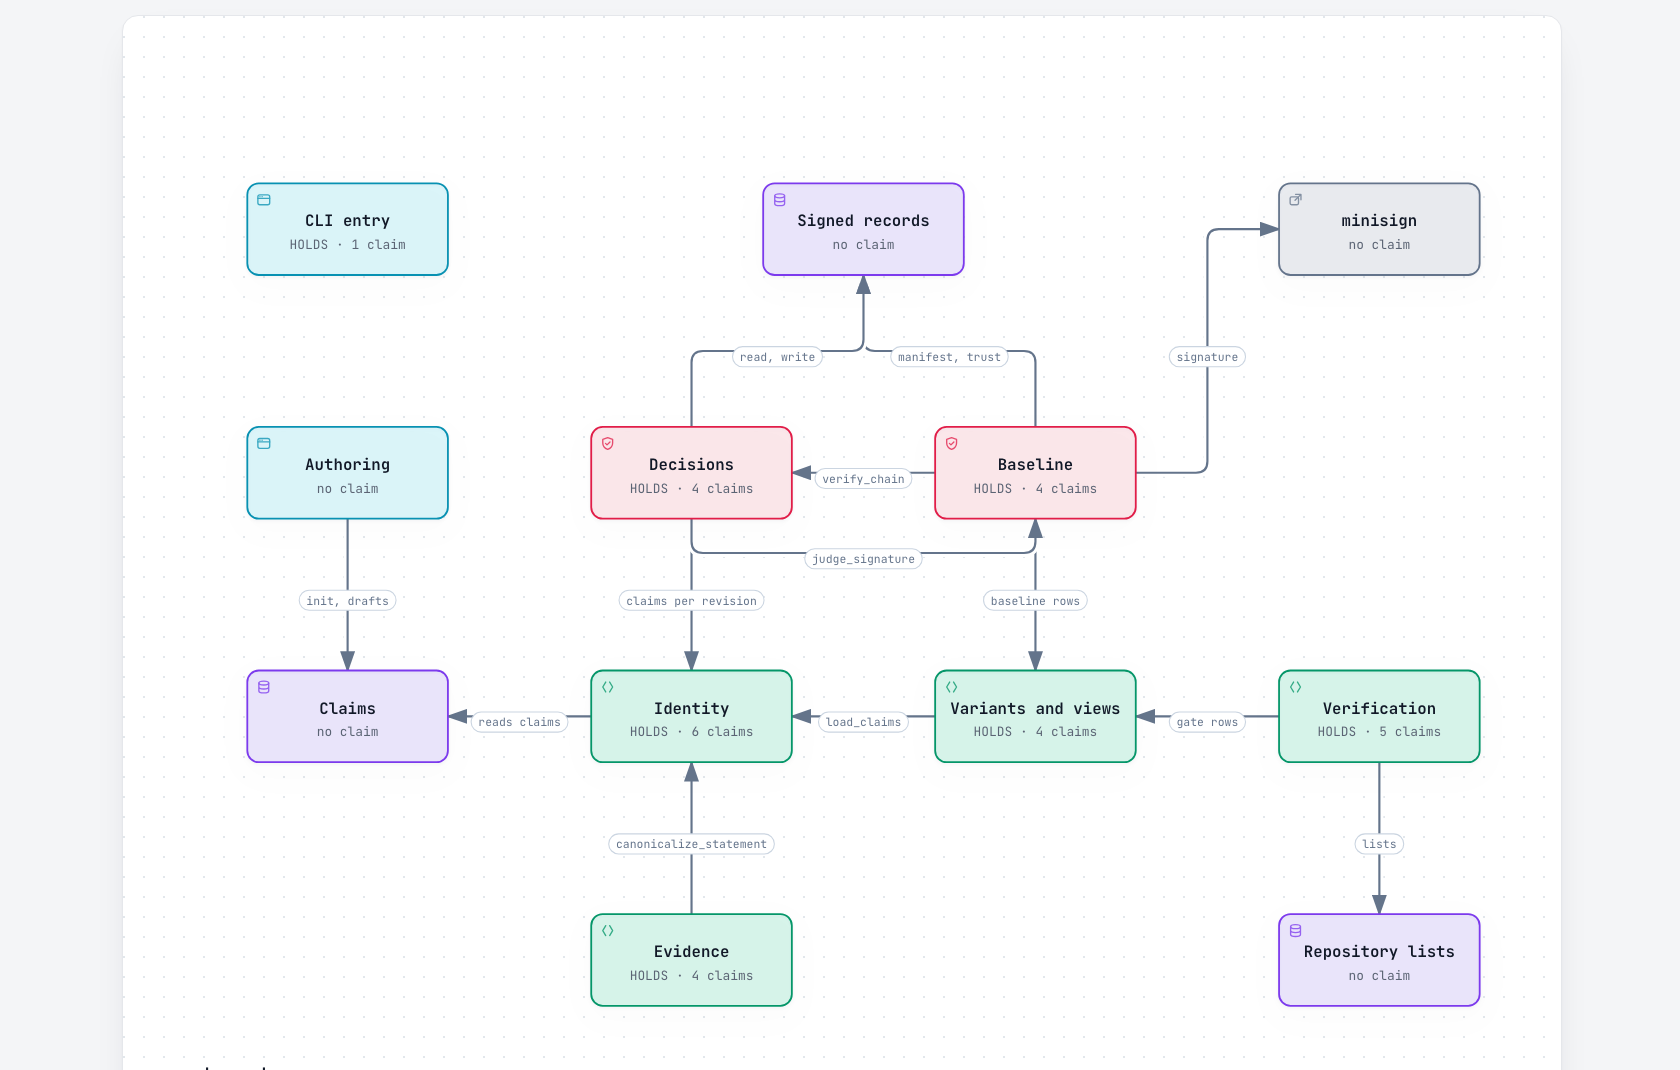
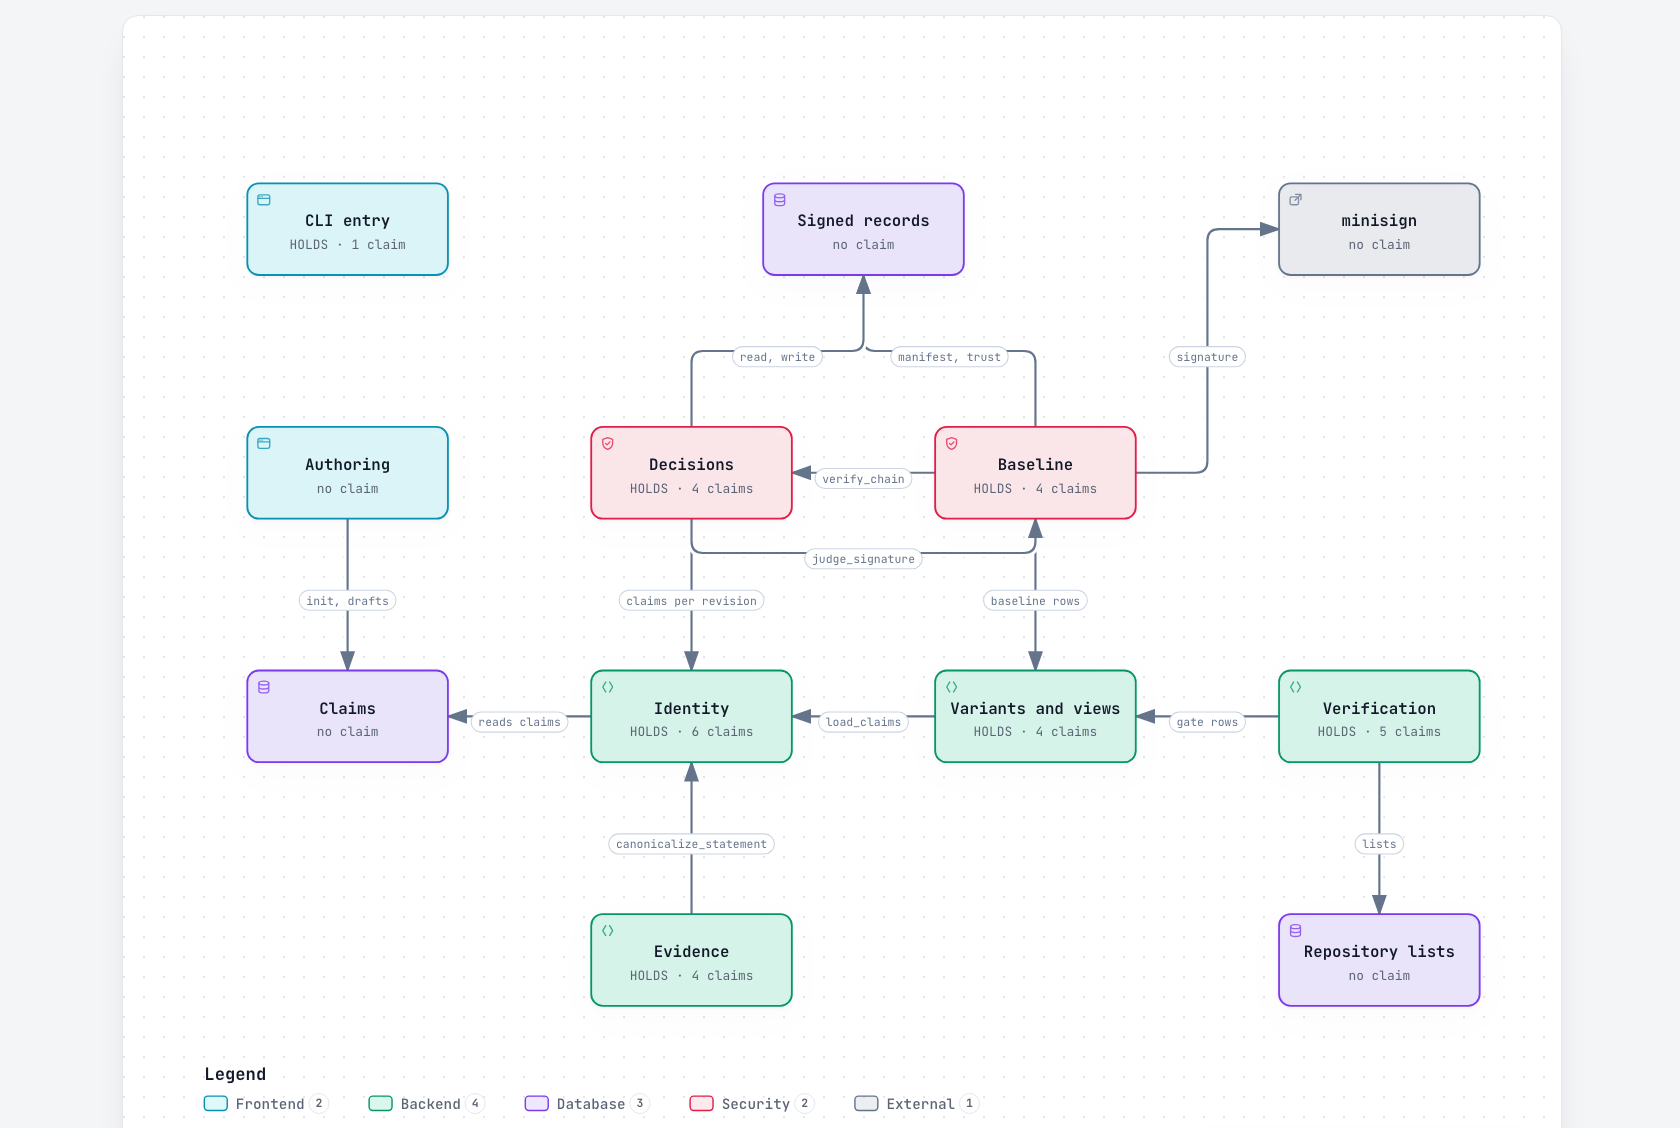
fix(readme): true alt text and Status numbers; re-crop the drift pictures so the legend is whole (P-1-fix)
README: the before picture's alt text said every part holds; five parts read "no claim", so it now says
every part with a linked requirement holds. Status numbers checked against the repository: RULES_V 8 -> 9
(src/canon.rs), 39 -> 40 dogfood claims (claims/), "seven corpus families, three of real prose" -> nine
corpora gated by scripts/check.sh (parity, external-v1..v4, direction-v1..v4; the last eight real prose from
other projects), "Five providers" -> "Four providers" (tier2-sample-protocol.md, Amendments 3 and 4). The
paraphrase numbers (272, 60, 180) and the Tier-2 floor sentence match experiments/.

Pictures: all three re-cropped identically to 1680x1128 (sips -c 1128 1680 --cropOffset 132 182 over the same
archify 7e45f36 renders, which reproduce the old crops byte for byte). Pixel check: same size; the only
differing regions are the Evidence box and its frame (tightening) and the loosening label. .png.json
png_sha256 and recipe updated; tools/demo/drift.html aspect-ratio 1680/1128; docs/drift.html regenerated
with drift_page.py --out.

scripts/check.sh: full run, exit 0, no SKIP.

diff --git a/docs/drift.html b/docs/drift.html
@@ -52,7 +52,7 @@
   .step.o-suspect .verdict { border-color: var(--red); color: var(--red); }
   .verdict { display: inline-block; font-weight: 700; border: 2px solid var(--fg); border-radius: 6px; padding: .05rem .5rem; margin-right: .35rem; }
   figure { margin: .25rem 0 .75rem; }
-  figure img { display: block; width: 100%; height: auto; aspect-ratio: 1680 / 1070; background: #fff; border: 1px solid var(--line); border-radius: 8px; }
+  figure img { display: block; width: 100%; height: auto; aspect-ratio: 1680 / 1128; background: #fff; border: 1px solid var(--line); border-radius: 8px; }
   figcaption { color: var(--muted); font-size: .9rem; margin-top: .35rem; }
   .copy-note { display: inline-block; font-size: .85rem; border: 1px dashed var(--muted); color: var(--muted); border-radius: 6px; padding: .1rem .5rem; margin-bottom: .6rem; }
   .stmt { display: grid; grid-template-columns: 4.5rem 1fr; gap: .5rem; align-items: baseline; margin: .35rem 0; }

diff --git a/tools/demo/drift.html b/tools/demo/drift.html
@@ -52,7 +52,7 @@
   .step.o-suspect .verdict { border-color: var(--red); color: var(--red); }
   .verdict { display: inline-block; font-weight: 700; border: 2px solid var(--fg); border-radius: 6px; padding: .05rem .5rem; margin-right: .35rem; }
   figure { margin: .25rem 0 .75rem; }
-  figure img { display: block; width: 100%; height: auto; aspect-ratio: 1680 / 1070; background: #fff; border: 1px solid var(--line); border-radius: 8px; }
+  figure img { display: block; width: 100%; height: auto; aspect-ratio: 1680 / 1128; background: #fff; border: 1px solid var(--line); border-radius: 8px; }
   figcaption { color: var(--muted); font-size: .9rem; margin-top: .35rem; }
   .copy-note { display: inline-block; font-size: .85rem; border: 1px dashed var(--muted); color: var(--muted); border-radius: 6px; padding: .1rem .5rem; margin-bottom: .6rem; }
   .stmt { display: grid; grid-template-columns: 4.5rem 1fr; gap: .5rem; align-items: baseline; margin: .35rem 0; }

diff --git a/README.md b/README.md
@@ -6,7 +6,7 @@ When a requirement's meaning changes, req tells you which parts of your design n
 
 | Before | After one edit |
 | --- | --- |
-| [![req's architecture diagram before any edit: twelve parts, every one holding](docs/architecture/drift/req-before.png)](https://autox-my.github.io/req/drift.html) | [![the same diagram after one requirement is tightened: the Evidence box reads SUSPECT and is framed in red, every other part is unchanged](docs/architecture/drift/req-tightening.png)](https://autox-my.github.io/req/drift.html) |
+| [![req's architecture diagram before any edit: twelve parts; every part with a linked requirement holds](docs/architecture/drift/req-before.png)](https://autox-my.github.io/req/drift.html) | [![the same diagram after one requirement is tightened: the Evidence box reads SUSPECT and is framed in red, every other part is unchanged](docs/architecture/drift/req-tightening.png)](https://autox-my.github.io/req/drift.html) |
 
 One requirement (REQ-0010) is tightened on a copy of req's own corpus; the part that implements it is framed in red for re-check; nothing else changes.
 
@@ -155,10 +155,11 @@ Git-native storage is table stakes, not the moat.
 
 ## Status
 
-- **Tier-1 is built and measured.** `RULES_V 8`, 39 dogfood claims — req's own requirements,
-  written in req's own format — and seven corpus families, including three of real
-  requirements prose from other projects, pinned by commit. Zero false merges on all of them.
-- **Tier-2 is measured and deliberately conservative.** Five providers evaluated against a
+- **Tier-1 is built and measured.** `RULES_V 9`, 40 dogfood claims — req's own requirements,
+  written in req's own format — and nine corpora gated on every commit: the seed parity corpus,
+  four external corpora and four direction gold sets, the last eight built from real requirements
+  prose from other projects, pinned by commit. Zero false merges on all of them.
+- **Tier-2 is measured and deliberately conservative.** Four providers evaluated against a
   human-labelled sample; one has a usable confidence ordering at a measured floor; the honest
   default is `NoProvider` until a provider survives held-out validation on a grown,
   blind-labelled corpus. The funnel and its instruments are research, kept out of the core in
